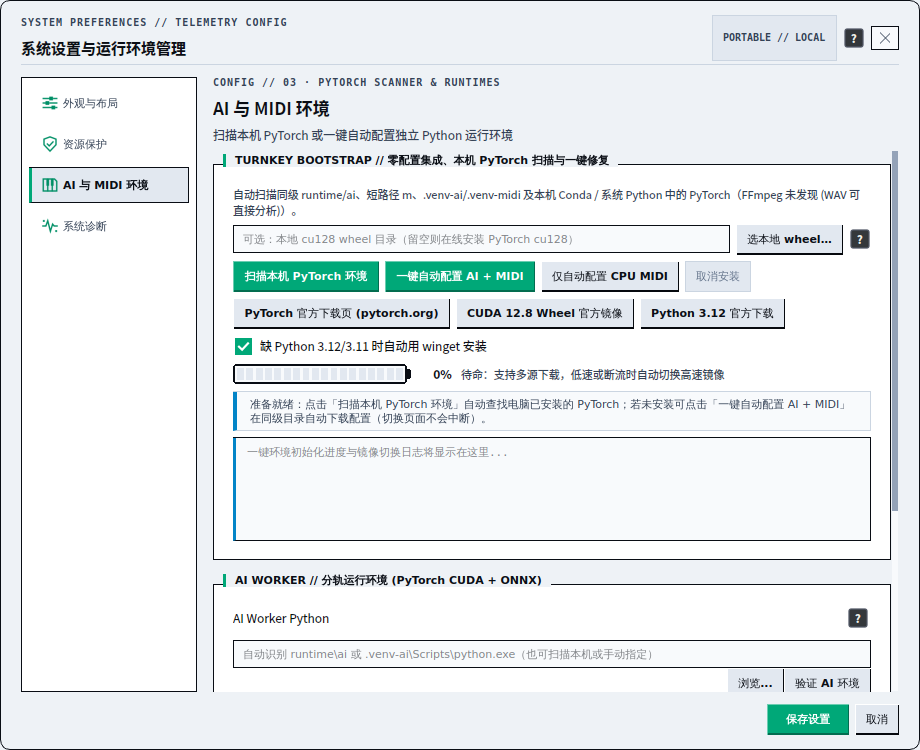
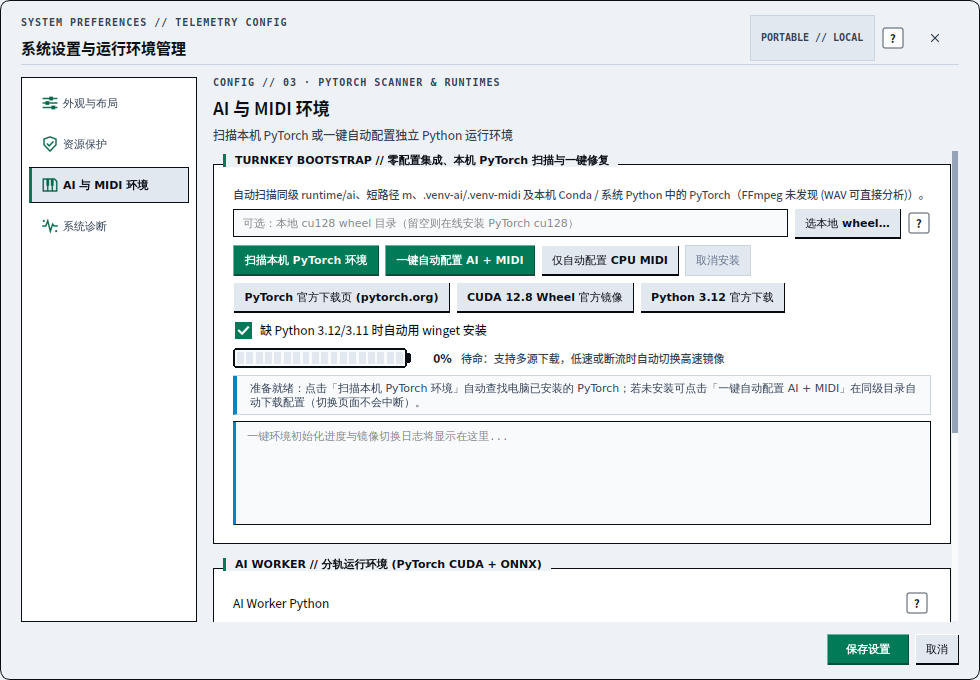
docs(images): regenerate settings_ai.png & demo.gif (860px, 10s, 1.6MB) for 2E-R and remove unused PNGs

Changed region(s): [[0.0, 0.0, 1.0, 1.0], [0.7609, 0.0309, 0.9739, 0.0926]]

diff --git a/scripts/make_screenshots.py b/scripts/make_screenshots.py
@@ -299,6 +299,230 @@ def render_design_sheet(out_dir: Path, *, max_kb: int = 200) -> Path:
     return out_path
 
 
+def capture_settings_ai(out_path: Path, *, max_kb: int = 250) -> Path:
+    """Capture 2E-R light-theme SettingsDialog on the 'AI 与 MIDI 环境' category."""
+    from ui.settings_dialog import SettingsDialog
+
+    app = QtWidgets.QApplication.instance() or QtWidgets.QApplication([])
+    report = probe_system()
+    report.gpu_name = "NVIDIA GeForce RTX 5060 Ti"
+    report.vram_total_mb = 8192.0
+    report.vram_free_mb = 7168.0
+    report.gpu_ai_ready = True
+
+    mixer = StemMixerEngine(sample_rate=48000, channels=2)
+    win = ListenScopeMainWindow(
+        hardware_report=report,
+        resource_limits=ResourceLimits(),
+        ai_config=AIConfig(),
+        mixer_engine=mixer,
+    )
+    try:
+        app_cfg = Appearance(theme_mode="light", language="zh")
+        win.apply_appearance(app_cfg)
+        dlg = SettingsDialog(
+            hardware_report=report,
+            resource_limits=ResourceLimits(),
+            ai_config=AIConfig(),
+            ai_python_executable=r"C:\ListenScope\.venv-ai\Scripts\python.exe",
+            midi_python_executable=r"C:\ListenScope\.venv-midi\Scripts\python.exe",
+            appearance=app_cfg,
+            close_behavior="ask",
+            acid_variant=win._acid_variant or "",
+            parent=win,
+        )
+        try:
+            dlg.open_category("midi")
+            dlg.resize(980, 680)
+            dlg.show()
+            for _ in range(4):
+                app.processEvents()
+            _save_png_under_limit(dlg.grab(), out_path, max_kb=max_kb)
+        finally:
+            dlg.close()
+    finally:
+        win.close()
+        mixer.close()
+    return out_path
+
+
+def capture_demo_gif(out_path: Path, *, width: int = 860, max_kb: int = 2900) -> Path:
+    """Capture a ~10s light-theme synthetic demo GIF (width=860, <3 MB) across 2E-R tabs."""
+    from PIL import Image
+
+    app = QtWidgets.QApplication.instance() or QtWidgets.QApplication([])
+
+    sr = 48000
+    acfg = AudioConfig(sample_rate=sr, channels=2, ring_buffer_seconds=20)
+    rb = FixedRingBuffer(acfg)
+    worker = AnalysisWorker(rb, audio_config=acfg, analysis_config=AnalysisConfig())
+
+    mixer = StemMixerEngine(sample_rate=sr, channels=2)
+    win = ListenScopeMainWindow(
+        hardware_report=probe_system(),
+        resource_limits=ResourceLimits(),
+        ai_config=AIConfig(),
+        mixer_engine=mixer,
+    )
+
+    res_snap = ResourceSnapshot(
+        timestamp=1.0,
+        main_ram_mb=310.0,
+        ai_worker_ram_mb=0.0,
+        system_ram_total_mb=16384.0,
+        system_ram_available_mb=6240.0,
+        gpu_name="Synthetic RTX GPU",
+        vram_total_mb=8192.0,
+        vram_used_mb=1024.0,
+        vram_free_mb=7168.0,
+        gpu_utilization_pct=4.0,
+        active_ai_jobs=0,
+        loaded_models=0,
+        current_model=None,
+        current_task=None,
+        audio_queue_size=1,
+        audio_queue_maxsize=64,
+        ai_buffer_seconds=3.0,
+        status=ResourceStatus.NORMAL,
+    )
+    cap_stats = CaptureStats(
+        mode=CaptureMode.SYNTHETIC_SIMULATION,
+        pid=None,
+        process_name="Simulated",
+        is_running=True,
+        sample_rate=sr,
+        channels=2,
+        dtype="float32",
+        rms_dbfs=-18.0,
+        peak_dbfs=-6.2,
+        is_silent=False,
+    )
+
+    chords_seq = [
+        ("C#m/E", "E", 440.0, "A4", [82.41, 277.18, 329.63, 415.30], (4, 1, 8)),
+        ("A", "F#m", 440.0, "A4", [110.0, 220.0, 277.18, 329.63], (9, 1, 4)),
+        ("E", "C#m", 329.63, "E4", [82.41, 164.81, 246.94, 329.63], (4, 8, 11)),
+        ("B", "G#m", 493.88, "B4", [123.47, 246.94, 311.13, 369.99], (11, 3, 6)),
+    ]
+
+    frames_pil: list[Image.Image] = []
+    chroma_hist = np.full((45, 12), 0.10, dtype=np.float32)
+
+    def _grab_pil() -> Image.Image:
+        pm = win.grab()
+        img = pm.toImage().convertToFormat(QtGui.QImage.Format.Format_RGBA8888)
+        w0, h0 = img.width(), img.height()
+        ptr = img.constBits()
+        pil_im = Image.frombuffer("RGBA", (w0, h0), bytes(ptr), "raw", "RGBA", 0, 1).convert("RGB")
+        new_h = int(round(h0 * (width / float(w0))))
+        return pil_im.resize((width, new_h), Image.Resampling.LANCZOS)
+
+    try:
+        win.apply_appearance(Appearance(theme_mode="light", language="zh"))
+        win.resize(1280, 720)
+        win.show()
+        win.update_resource_snapshot(res_snap, [], [])
+        win.update_capture_stats(cap_stats, 1.5)
+
+        # Warm up 1.5s of audio first so buffer/waveform is already populated
+        step_n = int(round(sr * 0.25))
+        t_cursor = 0.0
+        for _ in range(6):
+            t = t_cursor + np.arange(step_n, dtype=np.float32) / float(sr)
+            t_cursor += 0.25
+            mono = (0.24 * np.sin(2.0 * np.pi * 440.0 * t) + 0.14 * np.sin(2.0 * np.pi * 82.41 * t)).astype(np.float32)
+            rb.write(np.stack([mono, mono], axis=1))
+            worker.analyze_latest_once()
+
+        # 40 frames x 250ms = 10.0 seconds total
+        # Frames 0..17: Tab 0 (Spectrum & Waveform), 18..31: Tab 1 (Chords & Key), 32..39: Tab 2 (Mixer empty + A/B)
+        for idx in range(40):
+            if idx == 0:
+                win.tabs.setCurrentIndex(0)
+            elif idx == 18:
+                win.tabs.setCurrentIndex(1)
+            elif idx == 32:
+                win.tabs.setCurrentIndex(2)
+
+            c_prim, c_sec, f0, note_n, freqs, pcs = chords_seq[(idx // 5) % len(chords_seq)]
+            t = t_cursor + np.arange(step_n, dtype=np.float32) / float(sr)
+            t_cursor += 0.25
+            beat_env = 0.55 + 0.45 * np.power(np.maximum(0.0, np.cos(2.0 * np.pi * 1.0 * t)), 6.0)
+            mono = np.zeros(step_n, dtype=np.float32)
+            for k, f in enumerate(freqs):
+                mono += (0.18 if k == 0 else 0.10) * beat_env * np.sin(2.0 * np.pi * f * t)
+            rb.write(np.stack([mono, mono], axis=1))
+            snap = worker.analyze_latest_once()
+
+            snap.pitch = PitchEstimate(
+                frequency_hz=f0,
+                note_name=note_n,
+                cents_offset=round(float(np.sin(idx * 0.4) * 1.8), 1),
+                confidence=0.95,
+                is_polyphonic=False,
+                source_band="full",
+            )
+            snap.chord = ChordEstimate(
+                primary=c_prim,
+                secondary=c_sec,
+                stability="High" if idx % 5 >= 1 else "Medium",
+                correlation=0.86,
+                margin=0.14,
+                is_silent=False,
+            )
+            snap.key = KeyEstimate(
+                primary="E major",
+                secondary="C# minor",
+                stability="High",
+                correlation=0.87,
+                margin=0.09,
+            )
+            snap.tempo = TempoEstimate(bpm=120.0, stability="High", confidence_score=0.84, alt_bpm=60.0)
+            snap.window_seconds = round(min(120.0, 1.5 + (idx + 1) * 0.25), 1)
+            snap.latency_ms = 3.8
+
+            chroma_hist = np.roll(chroma_hist, -1, axis=0)
+            chroma_hist[-1, :] = 0.08
+            for pc in pcs:
+                chroma_hist[-1, pc] = 0.90
+
+            spec_mat = np.full((90, 96), -82.0, dtype=np.float32)
+            for b_idx in (16, 40, 56):
+                spec_mat[:, max(0, b_idx - 1) : min(96, b_idx + 2)] = -18.0
+
+            win.update_analysis_snapshot(snap, spec_mat, chroma_hist)
+            win.update_capture_stats(cap_stats, snap.window_seconds)
+            for _ in range(3):
+                app.processEvents()
+            frames_pil.append(_grab_pil())
+    finally:
+        win.close()
+        mixer.close()
+
+    out_path.parent.mkdir(parents=True, exist_ok=True)
+    # Quantize with a shared adaptive palette for clean, compact GIF (<3 MB)
+    quantized = [f.quantize(colors=96, method=Image.Quantize.MEDIANCUT, dither=Image.Dither.NONE) for f in frames_pil]
+    quantized[0].save(
+        str(out_path),
+        save_all=True,
+        append_images=quantized[1:],
+        duration=250,
+        loop=0,
+        optimize=True,
+    )
+    if out_path.stat().st_size > max_kb * 1024:
+        quantized = [f.quantize(colors=64, method=Image.Quantize.MEDIANCUT, dither=Image.Dither.NONE) for f in frames_pil]
+        quantized[0].save(
+            str(out_path),
+            save_all=True,
+            append_images=quantized[1:],
+            duration=250,
+            loop=0,
+            optimize=True,
+        )
+    return out_path
+
+
 def main(argv: list[str] | None = None) -> int:
     parser = argparse.ArgumentParser(description="Capture offscreen synthetic screenshots for ListenScope.")
     parser.add_argument("--out-dir", type=Path, default=REPO_ROOT / "docs" / "review" / "screens")
@@ -306,7 +530,17 @@ def main(argv: list[str] | None = None) -> int:
     parser.add_argument("--suffix", type=str, default="")
     parser.add_argument("--max-kb", type=int, default=200)
     parser.add_argument("--design-sheet", action="store_true", help="Generate design token & component state sheet")
+    parser.add_argument("--settings-ai", type=Path, default=None, help="Output path for Settings AI & MIDI PNG")
+    parser.add_argument("--demo-gif", type=Path, default=None, help="Output path for ~10s 860px light demo GIF")
     args = parser.parse_args(argv)
+    if args.settings_ai is not None:
+        out = capture_settings_ai(args.settings_ai)
+        print(f"{out} ({out.stat().st_size / 1024.0:.1f} KB)")
+        return 0
+    if args.demo_gif is not None:
+        out = capture_demo_gif(args.demo_gif)
+        print(f"{out} ({out.stat().st_size / 1024.0:.1f} KB)")
+        return 0
     if args.design_sheet:
         sheet = render_design_sheet(args.out_dir, max_kb=args.max_kb)
         print(f"{sheet} ({sheet.stat().st_size / 1024.0:.1f} KB)")
